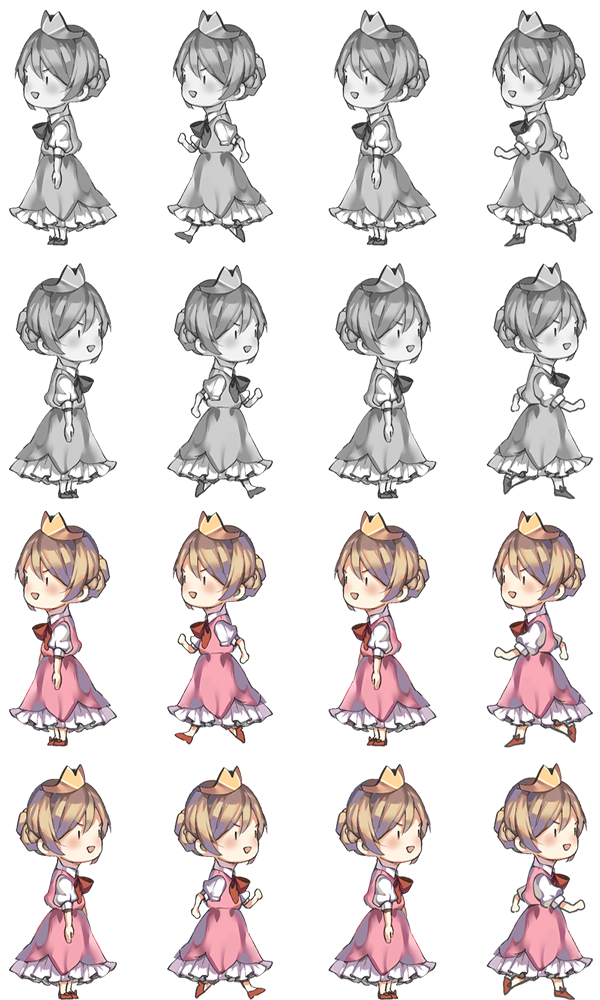
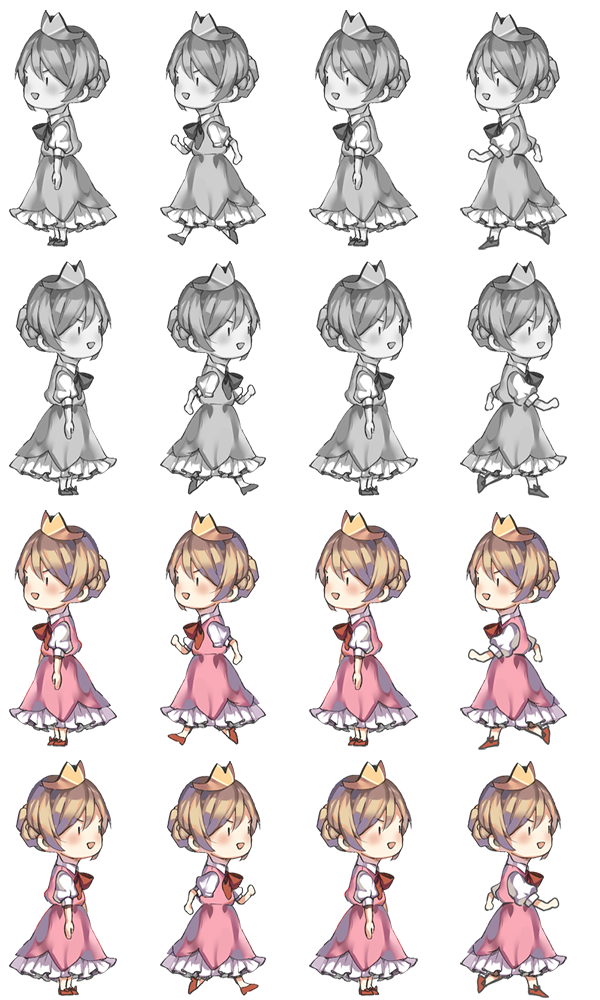
플레이어 애니메이션 시트 수정(간격) 충돌체크 구현

diff --git a/term/player_state.py b/term/player_state.py
@@ -20,3 +20,37 @@ class Princess:
 
     def motion(self):
         self.frame = (self.frame + 1) % 4
+
+    def get_bb(self, state, num):
+        if state == 1:
+            if num == 1:
+                return self.x - 33, self.y + 96, self.x - 6, self.y + 114
+            elif num == 2:
+                return self.x - 58, self.y + 17, self.x + 33, self.y + 96
+            else:
+                return self.x - 68, self.y - 100, self.x + 40, self.y - 82
+        else:
+            if num == 1:
+                return self.x - 15, self.y + 96, self.x + 11, self.y + 114
+            elif num == 2:
+                return self.x - 58, self.y + 17, self.x + 33, self.y + 96
+            else:
+                return self.x - 67, self.y - 100, self.x + 41, self.y - 82
+
+    def draw_face_left_bb(self):
+        draw_rectangle(*self.get_bb(1, 2))
+
+    def draw_crown_left_bb(self):
+        draw_rectangle(*self.get_bb(1, 1))
+
+    def draw_dress_left_bb(self):
+        draw_rectangle(*self.get_bb(1, 3))
+
+    def draw_face_right_bb(self):
+        draw_rectangle(*self.get_bb(2, 2))
+
+    def draw_crown_right_bb(self):
+        draw_rectangle(*self.get_bb(2, 1))
+
+    def draw_dress_right_bb(self):
+        draw_rectangle(*self.get_bb(2, 3))

diff --git a/term/game.py b/term/game.py
@@ -59,9 +59,15 @@ def exit():
     del background
 
 def update():
-    global fire
+    global fire, player
     for f in fire:
         f.update()
+        if collide(player, f, player.dir, 1):
+            print("충돌")
+        elif collide(player, f, player.dir, 2):
+            print("충돌")
+        elif collide(player, f, player.dir, 3):
+            print("충돌")
     delay(0.025)
 
 def resume():
@@ -178,5 +184,25 @@ def draw():
     player.draw()
     for f in fire:
         f.draw()
+        f.draw_bb()
     menu.draw()
+    if player.dir == dir_table[LEFT_MOVE] or player.dir == dir_table[LEFT_STOP]:
+        player.draw_face_left_bb()
+        player.draw_crown_left_bb()
+        player.draw_dress_left_bb()
+    else:
+        player.draw_face_right_bb()
+        player.draw_crown_right_bb()
+        player.draw_dress_right_bb()
     update_canvas()
+
+def collide(a, b, state, num):
+    left_a, bottom_a, right_a, top_a = a.get_bb(state, num)
+    left_b, bottom_b, right_b, top_b = b.get_bb()
+
+    if state == 2 or state == 3 : return False
+    if left_a > right_b : return False
+    if right_a < left_b : return False
+    if top_a < bottom_b : return  False
+    if bottom_a > top_b : return  False
+    return True

diff --git a/term/fire_state.py b/term/fire_state.py
@@ -6,10 +6,10 @@ STAGE1, STAGE2, STAGE3, STAGE4, STAGE5 = range(5)
 MIN, MAX = range(2)
 speed_table = {
                 STAGE1 : {MIN : 5, MAX : 8},
-                STAGE2 : {MIN : 7, MAX : 11},
-                STAGE3 : {MIN : 9, MAX : 12},
-                STAGE4 : {MIN : 11, MAX : 14},
-                STAGE5 : {MIN : 13, MAX : 17}}
+                STAGE2 : {MIN : 10, MAX : 13},
+                STAGE3 : {MIN : 14, MAX : 18},
+                STAGE4 : {MIN : 17, MAX : 21},
+                STAGE5 : {MIN : 19, MAX : 23}}
 
 next_stage_table = {STAGE1 : STAGE2, STAGE2 : STAGE3, STAGE3 : STAGE4, STAGE4 : STAGE5}
 
@@ -42,3 +42,9 @@ class Fire:
             self.x = random.randint(150, 650)
             self.y = 575
             self.speed = random.randint(self.minSpeed, self.maxSpeed)
+
+    def get_bb(self):
+        return self.x - 10, self.y - 25, self.x + 10, self.y + 25
+
+    def draw_bb(self):
+        draw_rectangle(*self.get_bb())
